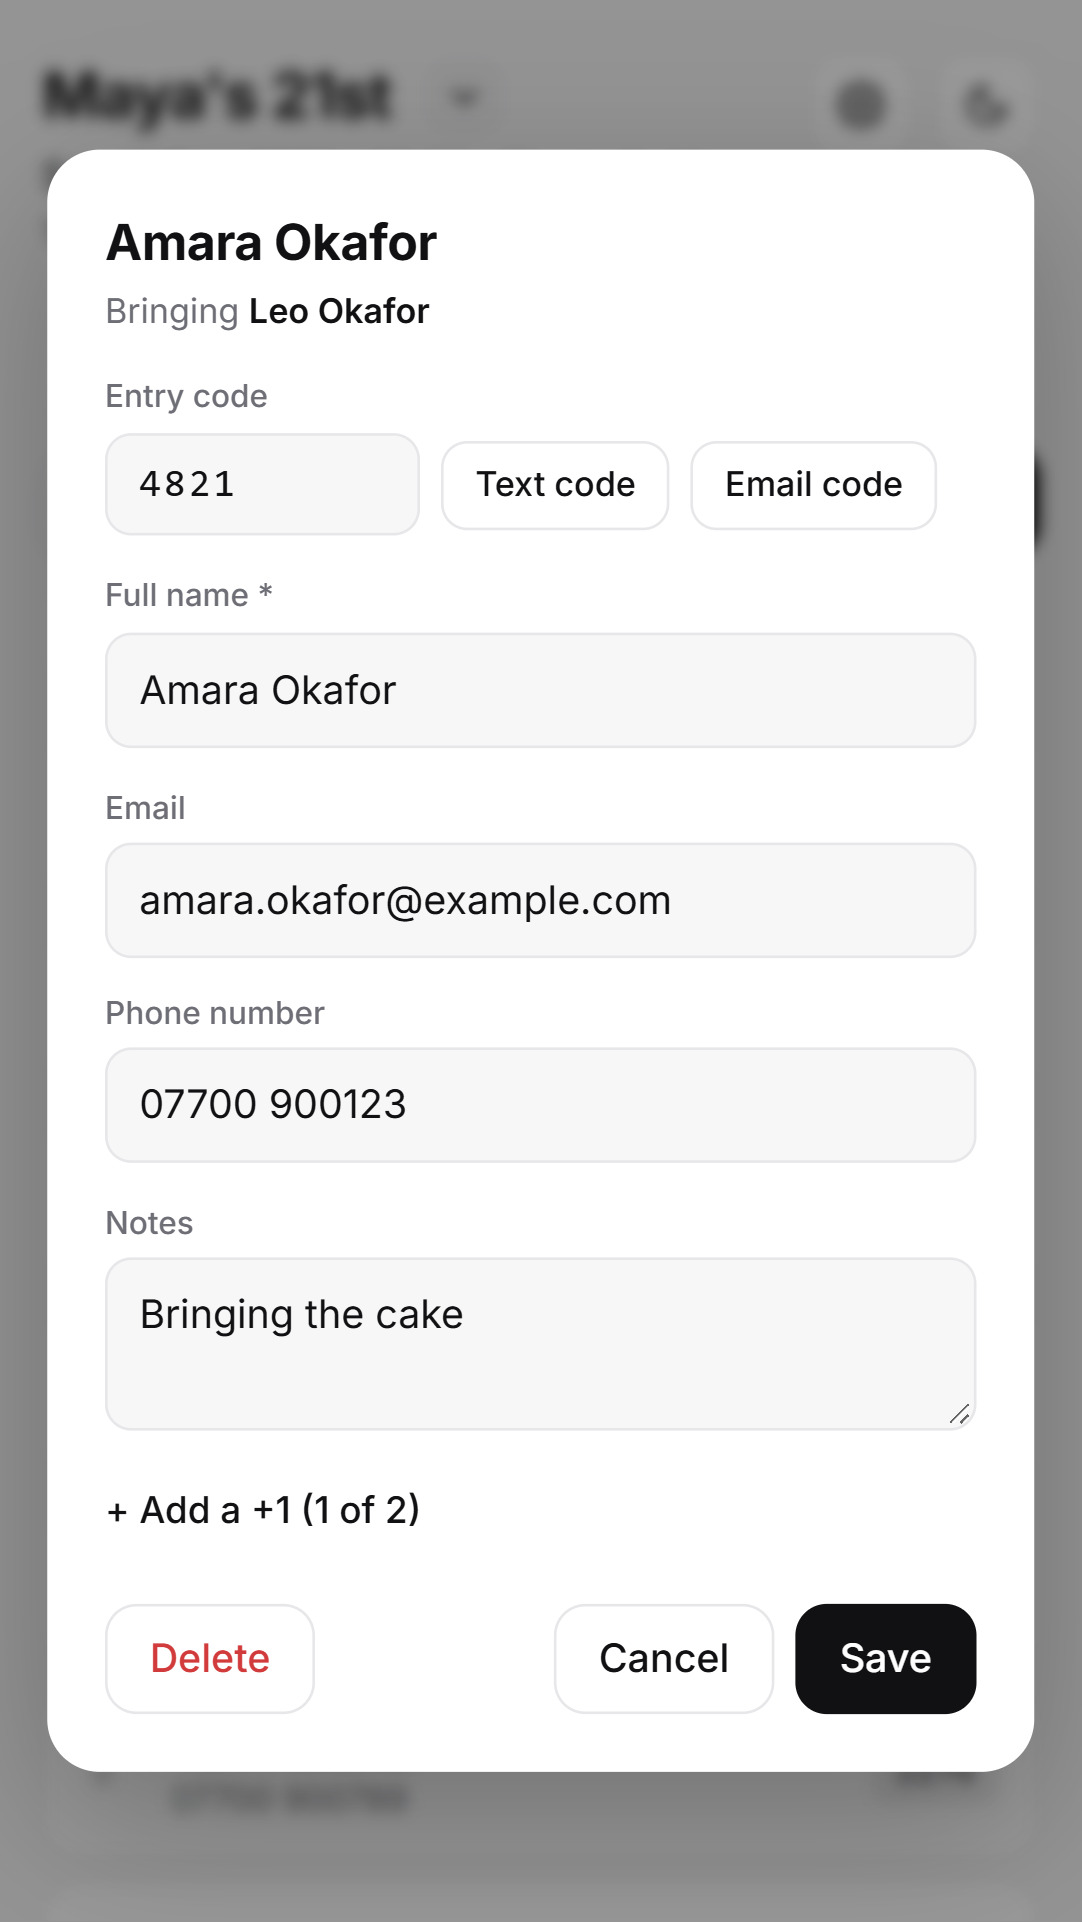
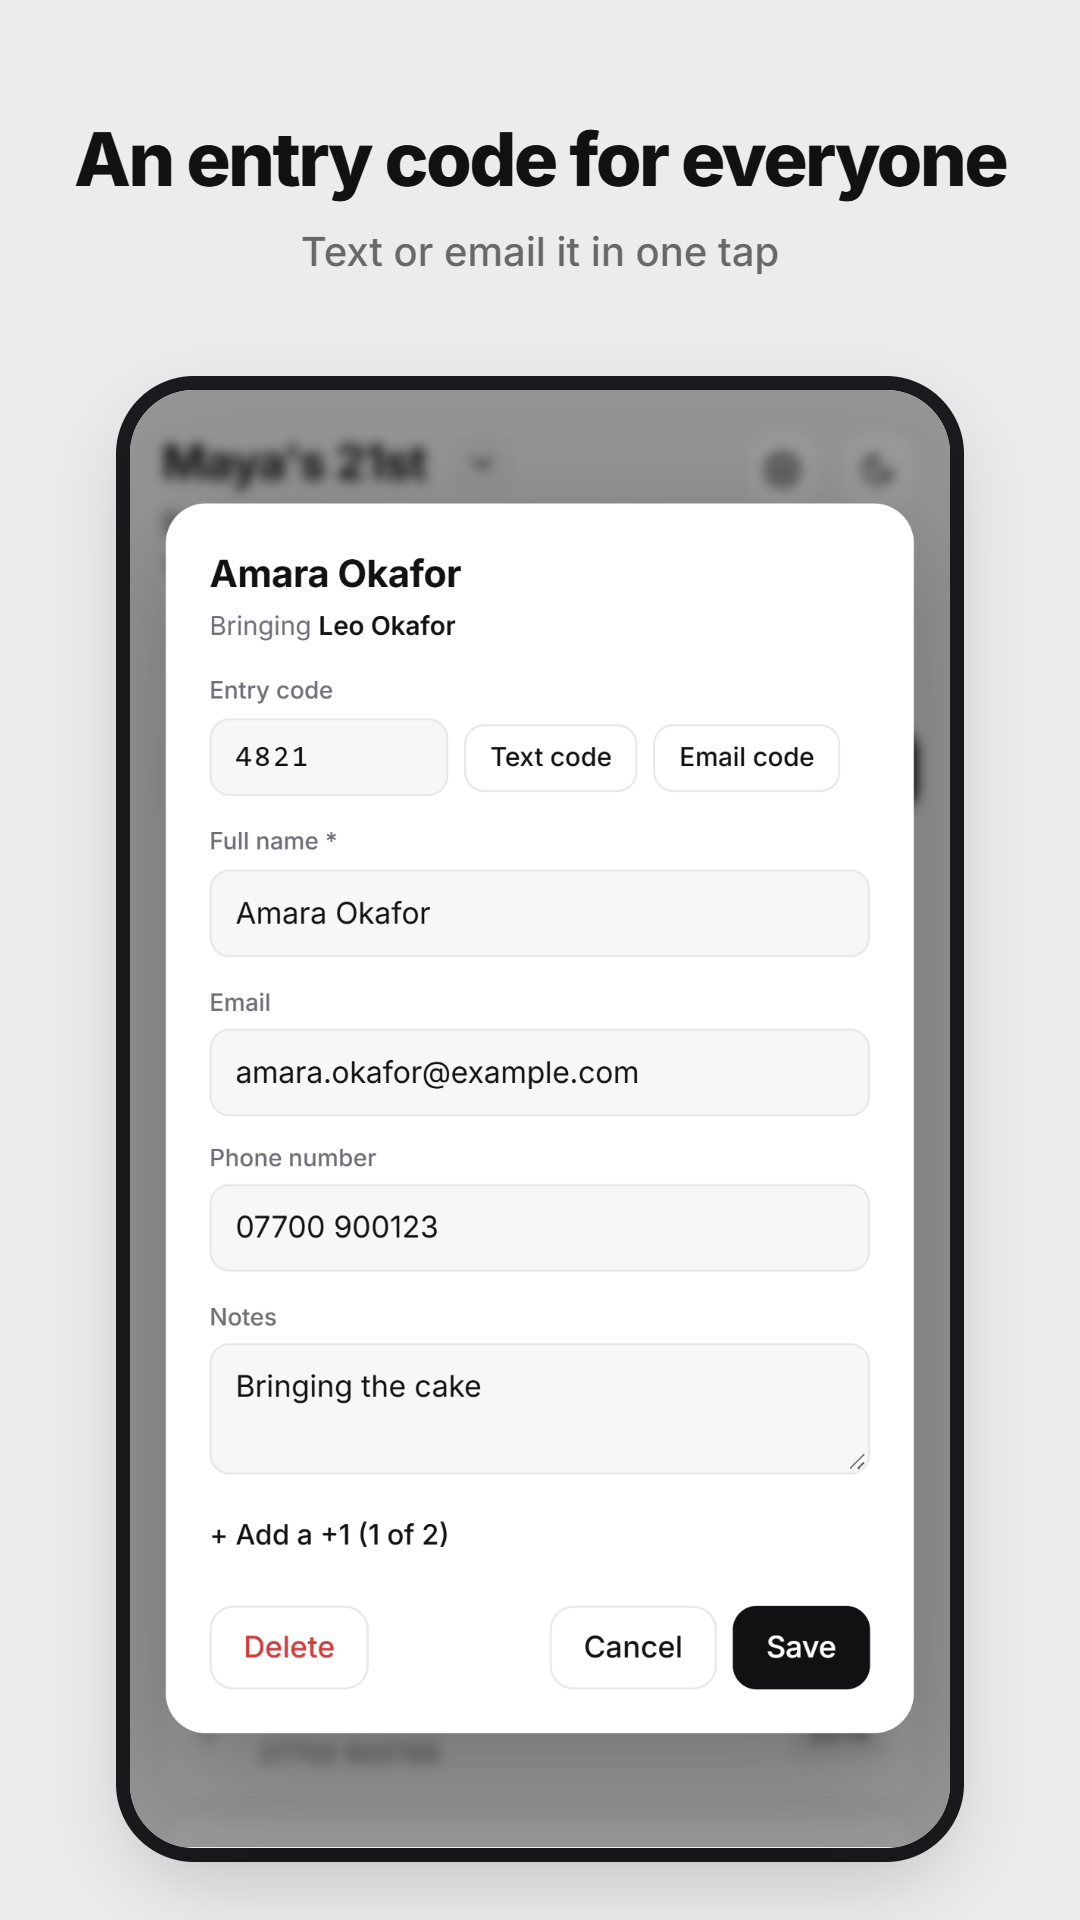
Play Store screenshots: captioned and framed, A-Z sort shown

diff --git a/store-assets/make-screenshots.js b/store-assets/make-screenshots.js
@@ -25,7 +25,7 @@ add('Marcus Bell', '8390', 'marcus.bell@example.com', '07700 900321', 'DJ for th
 add('Zara Ahmed', '5127', '', '07700 900654');
 add('Oliver Grant', '4469', 'oliver.g@example.com');
 const ev1 = { id: 'e1', title: "Maya's 21st", date: '2026-12-12', time: '20:00', place: 'The Loft, 14 Market Street, Leeds', sort: 'custom', nameSort: 'first', codeLen: 4, plusCap: 2, people, createdAt: 1 };
-const ev2 = { id: 'e2', title: 'New Year’s Eve', date: '2026-12-31', time: '21:00', place: '', sort: 'custom', nameSort: 'first', codeLen: 4, plusCap: 2, people: people.slice(2, 7).map(p => ({ ...p, id: p.id + 'b', plusOf: null })), createdAt: 2 };
+const ev2 = { id: 'e2', title: "New Year's Eve", date: '2026-12-31', time: '21:00', place: '', sort: 'custom', nameSort: 'first', codeLen: 4, plusCap: 2, people: people.slice(2, 7).map(p => ({ ...p, id: p.id + 'b', plusOf: null })), createdAt: 2 };
 const ev3 = { id: 'e3', title: 'Summer BBQ', date: '2027-07-04', time: '14:00', place: '', sort: 'custom', nameSort: 'first', codeLen: 4, plusCap: 2, people: people.slice(5, 9).map(p => ({ ...p, id: p.id + 'c', plusOf: null })), createdAt: 3 };
 const doc = { v: 2, events: [ev1, ev2, ev3], currentId: 'e1', savedAt: Date.now() };
 
@@ -39,13 +39,13 @@ const doc = { v: 2, events: [ev1, ev2, ev3], currentId: 'e1', savedAt: Date.now(
     await page.reload({ waitUntil: 'networkidle0' });
     await new Promise(r => setTimeout(r, 600));
     if (act) { await act(page); await new Promise(r => setTimeout(r, 700)); await page.evaluate(() => document.activeElement && document.activeElement.blur()); }
-    await page.screenshot({ path: path.join(OUT, name + '.png') });
+    fs.mkdirSync(path.join(SITE, 'raw'), { recursive: true }); await page.screenshot({ path: path.join(SITE, 'raw', name + '.png') });
     await page.close();
     console.log('saved', name);
   };
   await shot('1-list-light', 'light');
   await shot('2-guest', 'light', p => p.click('#list li.row .main'));
-  await shot('3-list-dark', 'dark');
+  await shot('3-list-dark', 'dark', p => p.click('button[data-sort="az"]'));
   await shot('4-events', 'dark', p => p.click('#eventsBtn'));
   const fp = await browser.newPage();
   await fp.setViewport({ width: 1024, height: 500, deviceScaleFactor: 1 });
@@ -53,5 +53,21 @@ const doc = { v: 2, events: [ev1, ev2, ev3], currentId: 'e1', savedAt: Date.now(
   await fp.screenshot({ path: path.join(OUT, 'feature-graphic.png') });
   fs.copyFileSync(path.join(SITE, 'icon-512.png'), path.join(OUT, 'app-icon-512.png'));
   console.log('saved feature-graphic + icon');
+  const frames = [
+    ['1-list-light', 'light', 'Your guest list, sorted', 'Names, contacts, notes and +1s'],
+    ['2-guest', 'light', 'An entry code for everyone', 'Text or email it in one tap'],
+    ['3-list-dark', 'dark', 'Sort it your way', 'Your own order, or A to Z by first or last name'],
+    ['4-events', 'dark', 'A list for every party', 'Switch events in a tap, swipe to delete'],
+  ];
+  for (const [name, theme, h, s] of frames) {
+    const fp2 = await browser.newPage();
+    await fp2.setViewport({ width: 1080, height: 1920, deviceScaleFactor: 1 });
+    const qs = new URLSearchParams({ theme, h, s, img: 'raw/' + name + '.png' });
+    await fp2.goto('http://localhost:5199/frame.html?' + qs, { waitUntil: 'networkidle0' });
+    await fp2.screenshot({ path: path.join(OUT, name + '.png') });
+    await fp2.close(); console.log('framed', name);
+  }
   await browser.close(); server.close();
 })().catch(e => { console.error(e); process.exit(1); });
+
+

diff --git a/store-assets/frame.html b/store-assets/frame.html
@@ -1,0 +1,27 @@
+<!doctype html>
+<html><head><meta charset="utf-8"><link href="https://fonts.googleapis.com/css2?family=Inter:wght@500;700;800&display=swap" rel="stylesheet">
+<style>
+  html,body{margin:0;width:1080px;height:1920px;overflow:hidden}
+  body{font-family:Inter,system-ui,sans-serif;display:flex;flex-direction:column;align-items:center;box-sizing:border-box;padding-top:120px}
+  body.light{background:#ececef;color:#111113}
+  body.dark{background:#0d0d0f;color:#f4f4f5}
+  h1{margin:0 60px;white-space:nowrap;font-size:74px;line-height:1.06;font-weight:800;letter-spacing:-.035em;text-align:center}
+  p{margin:28px 90px 0;font-size:40px;line-height:1.3;font-weight:500;text-align:center;opacity:.6}
+  .phone{position:absolute;top:390px;width:820px;height:1458px;border-radius:64px;overflow:hidden;flex:none;
+         box-shadow:0 30px 80px rgba(0,0,0,.18),0 0 0 14px #1b1b1f}
+  body.dark .phone{box-shadow:0 30px 80px rgba(0,0,0,.6),0 0 0 14px #2a2a30}
+  .phone img{width:100%;display:block}
+</style></head>
+<body>
+  <h1 id="h"></h1><p id="s"></p>
+  <div class="phone"><img id="img" alt=""></div>
+<script>
+  const q = new URLSearchParams(location.search);
+  document.body.className = q.get('theme') || 'light';
+  document.getElementById('h').textContent = q.get('h');
+  document.getElementById('s').textContent = q.get('s');
+  document.getElementById('img').src = q.get('img');
+</script>
+</body></html>
+
+

diff --git a/store-assets/feature.html b/store-assets/feature.html
@@ -1,0 +1,13 @@
+<!doctype html>
+<html><head><meta charset="utf-8"><link href="https://fonts.googleapis.com/css2?family=Inter:wght@500;700;800&display=swap" rel="stylesheet">
+<style>
+  html,body{margin:0;width:1024px;height:500px;overflow:hidden}
+  body{background:#0d0d0f;color:#f4f4f5;font-family:Inter,system-ui,sans-serif;display:flex;align-items:center;gap:56px;padding:0 72px;box-sizing:border-box}
+  .icon{width:200px;height:200px;border-radius:44px;flex:none}
+  h1{margin:0 0 14px;font-size:66px;font-weight:800;letter-spacing:-.03em;line-height:1}
+  p{margin:0;font-size:28px;line-height:1.35;color:#a1a1aa;font-weight:500;max-width:560px}
+</style></head>
+<body>
+  <img class="icon" src="icon-512.png" alt="">
+  <div><h1>Party List</h1><p>Guest lists, +1s and entry codes for every party you throw.</p></div>
+</body></html>
